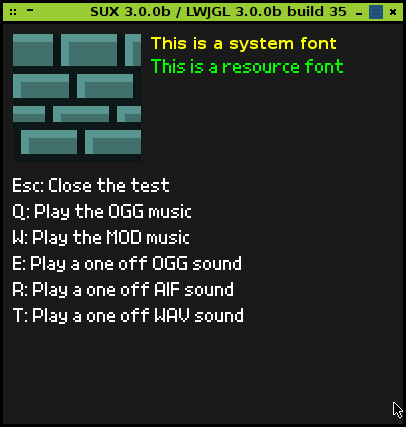
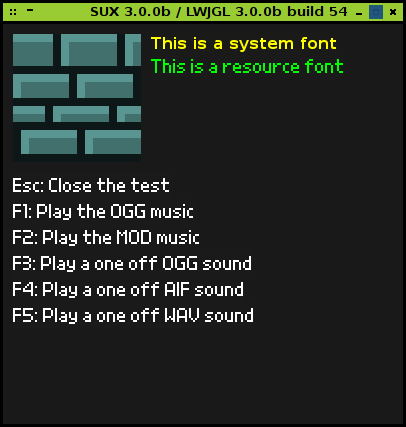
TestUtils now uses function keys for input

Changed region(s): [[0.0296, 0.4567, 0.6207, 0.7611], [0.9458, 0.9438, 1.0, 0.9742], [0.798, 0.0, 0.8571, 0.0304]]

diff --git a/src/io/flob/sux/tests/TestUtils.java b/src/io/flob/sux/tests/TestUtils.java
@@ -16,7 +16,6 @@ import java.io.File;
 import java.io.FileInputStream;
 import java.io.IOException;
 import java.io.InputStream;
-import java.nio.ByteBuffer;
 import org.lwjgl.glfw.*;
 import org.lwjgl.opengl.*;
 import static org.lwjgl.glfw.GLFW.*;
@@ -271,23 +270,23 @@ public class TestUtils {
                     // tell GLFW to close the window
                     glfwSetWindowShouldClose(window, GL_TRUE);
                 }
-                if (key == GLFW_KEY_Q && action == GLFW_PRESS) {
+                if (key == GLFW_KEY_F1 && action == GLFW_PRESS) {
                     // replace the music thats curretly playing with the OGG
                     oggStream.playAsMusic(1.0f, 1.0f, true);
                 }
-                if (key == GLFW_KEY_W && action == GLFW_PRESS) {
+                if (key == GLFW_KEY_F2 && action == GLFW_PRESS) {
                     // replace the music thats curretly playing with the mod
                     modStream.playAsMusic(1.0f, 1.0f, true);
                 }
-                if (key == GLFW_KEY_E && action == GLFW_PRESS) {
+                if (key == GLFW_KEY_F3 && action == GLFW_PRESS) {
                     // play as a one off sound effect
                     oggEffect.playAsSoundEffect(1.0f, 1.0f, false);
                 }
-                if (key == GLFW_KEY_R && action == GLFW_PRESS) {
+                if (key == GLFW_KEY_F4 && action == GLFW_PRESS) {
                     // play as a one off sound effect
                     aifEffect.playAsSoundEffect(1.0f, 1.0f, false);
                 }
-                if (key == GLFW_KEY_T && action == GLFW_PRESS) {
+                if (key == GLFW_KEY_F5 && action == GLFW_PRESS) {
                     // play as a one off sound effect
                     wavEffect.playAsSoundEffect(1.0f, 1.0f, false);
                 }
@@ -351,15 +350,15 @@ public class TestUtils {
         int height = 20 + texture.getTextureHeight();
         fontResource.drawString(10, height, "Esc: Close the test", Color.white);
         height += fontResource.getLineHeight();
-        fontResource.drawString(10, height, "Q: Play the OGG music", Color.white);
+        fontResource.drawString(10, height, "F1: Play the OGG music", Color.white);
         height += fontResource.getLineHeight();
-        fontResource.drawString(10, height, "W: Play the MOD music", Color.white);
+        fontResource.drawString(10, height, "F2: Play the MOD music", Color.white);
         height += fontResource.getLineHeight();
-        fontResource.drawString(10, height, "E: Play a one off OGG sound", Color.white);
+        fontResource.drawString(10, height, "F3: Play a one off OGG sound", Color.white);
         height += fontResource.getLineHeight();
-        fontResource.drawString(10, height, "R: Play a one off AIF sound", Color.white);
+        fontResource.drawString(10, height, "F4: Play a one off AIF sound", Color.white);
         height += fontResource.getLineHeight();
-        fontResource.drawString(10, height, "T: Play a one off WAV sound", Color.white);
+        fontResource.drawString(10, height, "F5: Play a one off WAV sound", Color.white);
     }
 
 }

diff --git a/README.md b/README.md
@@ -7,7 +7,7 @@ Screenshot:
 
 ![screenshot](screenshot.png)
 
-**NOTE: ninjacave now provides a [slick-util3] wrapper which probably works much better than SUX. If you are interested in slick-util for LWJGL3 you should probably check out the ninjacave wrapper first.**
+**NOTE: ninjacave now provide a [slick-util3] wrapper which probably works better than SUX. If you are interested in slick-util for LWJGL3 then you should check out the ninjacave wrapper first.**
 
 ---
 
